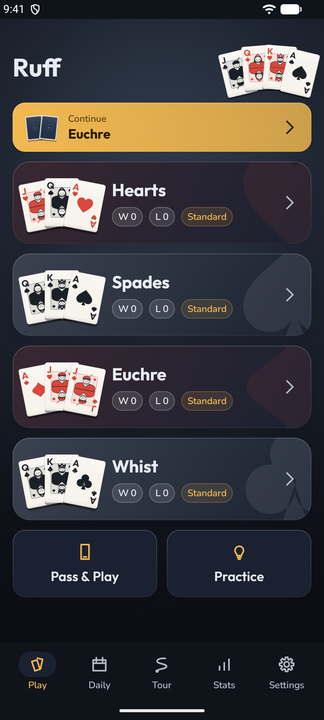
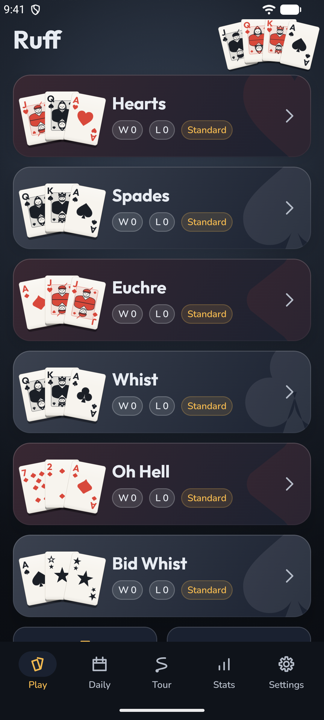
Ruff pages follow the six-game scope
Oh Hell and Bid Whist shipped, the table seats two to five, and the Tour
grew to fifty chapters, so the landing page, the privacy policy and the
home page card say six games where they said four, 300 Tour matches
where they said 240, and Pass & Play for up to five.

The games section gains two tiles and notes the new seat counts and
Whist modes; the free-versus-unlock split for every game is taken from
the setup sheet's own flags, which leave Oh Hell and Bid Whist with
their targets free and every other option on the unlock. The Home
screenshot is the six-game capture. The hand sort mentions the manual
order, and the result card's Share is described.

The privacy policy is dated 20 September: it records the reminder's
switch and time and the hand order among the settings, adds a
Notifications row for the local Daily reminder (asked for only when the
switch is turned on, re-armed after a reboot on Android, no push
service), describes the share card as a picture handed to the system
sheet, names the share and rejected-receipt events among the usage
statistics, and counts each seat's score rather than four.

diff --git a/ruff/index.html b/ruff/index.html
@@ -3,8 +3,8 @@
 <head>
 <meta charset="utf-8">
 <meta name="viewport" content="width=device-width, initial-scale=1">
-<title>Ruff — Hearts, Spades, Euchre and Whist at one honest table, for Android and iOS · crackoncloud</title>
-<meta name="description" content="Ruff is Hearts, Spades, Euchre and Whist in one app: opponents that play a real club hand, a partner that covers your nil, every deal sealed before it is dealt and checkable after, every house rule as a switch, a Coach, a Daily scored against the expert, a 240-match Tour and Pass & Play. Offline, no account, no ads, one purchase.">
+<title>Ruff — Hearts, Spades, Euchre, Whist, Oh Hell and Bid Whist at one honest table, for Android and iOS · crackoncloud</title>
+<meta name="description" content="Ruff is Hearts, Spades, Euchre, Whist, Oh Hell and Bid Whist in one app: opponents that play a real club hand, a partner that covers your nil, every deal sealed before it is dealt and checkable after, every house rule as a switch, a Coach, a Daily scored against the expert, a 300-match Tour and Pass & Play for two to five. Offline, no account, no ads, one purchase.">
 <meta name="application-name" content="Ruff">
 <meta name="apple-mobile-web-app-title" content="Ruff">
 <meta name="theme-color" content="#14181F">
@@ -17,7 +17,7 @@
 <meta property="og:type" content="website">
 <meta property="og:url" content="https://crackoncloud.com/ruff/">
 <meta property="og:site_name" content="crackoncloud">
-<meta property="og:title" content="Ruff — Hearts, Spades, Euchre and Whist at one honest table">
+<meta property="og:title" content="Ruff — Hearts, Spades, Euchre, Whist, Oh Hell and Bid Whist at one honest table">
 <meta property="og:description" content="Opponents that play a real club hand, sealed deals you can check, every house rule as a switch, a Coach, a Daily, a Tour and Pass & Play. Offline, no account, no ads, one purchase.">
 <meta property="og:image" content="https://crackoncloud.com/assets/ruff/og.png">
 <meta property="og:image:width" content="1200">
@@ -35,10 +35,10 @@
   "applicationSubCategory": "Card",
   "gamePlatform": ["Android", "iOS"],
   "playMode": ["SinglePlayer", "MultiPlayer"],
-  "numberOfPlayers": { "@type": "QuantitativeValue", "minValue": 1, "maxValue": 4 },
+  "numberOfPlayers": { "@type": "QuantitativeValue", "minValue": 1, "maxValue": 5 },
   "url": "https://crackoncloud.com/ruff/",
   "image": "https://crackoncloud.com/assets/ruff/icon-256.png",
-  "description": "Hearts, Spades, Euchre and Whist for Android and iOS, at one table with one AI for every seat. The opponents search thousands of possible deals before each card and choose the conventional play among the good ones; a partner covers your nil and never over-trumps your winner. Every deal is sealed to a SHA-256 code before it is dealt and can be checked after it. Every house rule is a switch. A Coach shows the expert's card and why; a Daily is scored against the expert on the same deals; a Tour of 240 matches climbs from Easy to Expert; Pass & Play seats up to four people at one phone. No ads, no account, no server; offline; one purchase, not a subscription.",
+  "description": "Hearts, Spades, Euchre, Whist, Oh Hell and Bid Whist for Android and iOS, at one table of two to five seats with one AI for every seat. The opponents search thousands of possible deals before each card and choose the conventional play among the good ones; a partner covers your nil and never over-trumps your winner. Every deal is sealed to a SHA-256 code before it is dealt and can be checked after it. Every house rule is a switch. A Coach shows the expert's card and why; a Daily is scored against the expert on the same deals; a Tour of 300 matches climbs from Easy to Expert; Pass & Play seats up to five people at one phone. No ads, no account, no server; offline; one purchase, not a subscription.",
   "author": { "@type": "Organization", "name": "crackoncloud", "url": "https://crackoncloud.com/" },
   "privacyPolicy": "https://crackoncloud.com/ruff/privacy-policy/"
 }
@@ -165,7 +165,7 @@ section{padding:64px 0;border-top:1px solid var(--line)}
 .tile h3{margin:0 0 8px;font-size:17px;letter-spacing:-.01em}
 .tile p{margin:0;color:var(--quiet);font-size:14.5px}
 
-.games{display:grid;gap:16px;grid-template-columns:repeat(auto-fit,minmax(240px,1fr))}
+.games{display:grid;gap:16px;grid-template-columns:repeat(auto-fit,minmax(300px,1fr))}
 .game{
   background:var(--card);border:1px solid var(--line);border-radius:var(--radius);
   padding:22px 22px 20px;position:relative;overflow:hidden;
@@ -248,7 +248,7 @@ footer{border-top:1px solid var(--line);padding:36px 0 56px;color:var(--quiet);f
       Ruff <span class="sep">·</span> <span class="sub">crackoncloud</span>
     </a>
     <nav>
-      <a href="#games">Four games</a>
+      <a href="#games">Six games</a>
       <a href="#partner">The partner</a>
       <a href="#sealed">Sealed deals</a>
       <a href="#rules">Your rules</a>
@@ -266,7 +266,7 @@ footer{border-top:1px solid var(--line);padding:36px 0 56px;color:var(--quiet);f
       <div>
         <span class="eyebrow">Card games · Android and iOS</span>
         <h1>Ruff</h1>
-        <p class="tagline">Hearts, Spades, Euchre and Whist. <span class="alt">At one honest table.</span></p>
+        <p class="tagline">Hearts, Spades, Euchre, Whist, Oh Hell and Bid Whist. <span class="alt">At one honest table.</span></p>
         <p class="lede">
           Opponents that play a real club hand: a partner that covers your nil, never trumps your
           winner, and bids to your rules. Every deal is sealed before it is dealt and can be checked
@@ -294,33 +294,45 @@ footer{border-top:1px solid var(--line);padding:36px 0 56px;color:var(--quiet);f
   <section id="games">
     <div class="wrap">
       <div class="section-head">
-        <h2>Four games, one table</h2>
-        <p>All four are free, at every target, against Easy and Standard opponents. Each game has its own rules sheet, its own statistics and its own place in the Daily and the Tour.</p>
+        <h2>Six games, one table</h2>
+        <p>All six are free, at every target, against Easy and Standard opponents. Each game has its own rules sheet, its own statistics and its own place in the Daily and the Tour.</p>
       </div>
       <div class="games">
         <div class="game">
           <span class="suit red" aria-hidden="true">♥</span>
           <h3><span class="pip red" aria-hidden="true">♥</span>Hearts</h3>
           <p class="to">To 50, 100 or 150</p>
-          <p>The jack of diamonds, shooting the moon your way — add, subtract, or choose at the time — and every passing rotation, or none.</p>
+          <p>The jack of diamonds, shooting the moon your way — add, subtract, or choose at the time — every passing rotation or none, the sun, and a table for three or five.</p>
         </div>
         <div class="game">
           <span class="suit" aria-hidden="true">♠</span>
           <h3><span class="pip" aria-hidden="true">♠</span>Spades</h3>
           <p class="to">To 200, 300 or 500</p>
-          <p>Nil and blind nil, bags at five or ten, jokers as top trumps, spades led any time, ten for 200, and every player for themselves if that is how your table plays.</p>
+          <p>Nil and blind nil, bags at five or ten, jokers as top trumps, spades led any time, ten for 200, every player for themselves, and cutthroat for three with a kitty.</p>
         </div>
         <div class="game">
           <span class="suit red" aria-hidden="true">♦</span>
           <h3><span class="pip red" aria-hidden="true">♦</span>Euchre</h3>
           <p class="to">To 5, 7, 10 or 15</p>
-          <p>Stick the dealer, going alone, the farmer's hand, the Canadian loner, a 24-, 28- or 32-card deck, and British scoring.</p>
+          <p>Stick the dealer, going alone, the farmer's hand, the Canadian loner, a defender answering alone, a 24-, 28- or 32-card deck, and British scoring.</p>
         </div>
         <div class="game">
           <span class="suit" aria-hidden="true">♣</span>
           <h3><span class="pip" aria-hidden="true">♣</span>Whist</h3>
           <p class="to">To 5 or 7</p>
-          <p>The classic partnership game: the last card turned for trumps, the long or the short game, with honours if you count them.</p>
+          <p>The classic partnership game: the last card turned for trumps, the long or the short game, with honours if you count them. Or German Whist for two, drawing from the stock, or Knockout Whist down to the last seat in.</p>
+        </div>
+        <div class="game">
+          <span class="suit red" aria-hidden="true">♦</span>
+          <h3><span class="pip red" aria-hidden="true">♦</span>Oh Hell</h3>
+          <p class="to">Three, four or five seats</p>
+          <p>A bid on every hand as the deal climbs from one card to seven and back, or runs down from seven or up to thirteen; trump from the turn-up; the dealer hooked so the bids never add up; ten and a trick for an exact bid, or the difference off for a miss.</p>
+        </div>
+        <div class="game">
+          <span class="suit" aria-hidden="true">♠</span>
+          <h3><span class="pip" aria-hidden="true">♠</span>Bid Whist</h3>
+          <p class="to">To 5, 7 or 9</p>
+          <p>Fifty-four cards, a six-card kitty, and bids of three to seven books uptown, downtown or no-trump; the winner takes the kitty, names trump and discards six; jokers on top, and a redeal on four passes if you play it.</p>
         </div>
       </div>
     </div>
@@ -330,7 +342,7 @@ footer{border-top:1px solid var(--line);padding:36px 0 56px;color:var(--quiet);f
     <div class="wrap">
       <div class="section-head">
         <h2>A partner who plays like one</h2>
-        <p>One AI for every seat, at four levels you set per seat, so you can have a strong partner and gentle opponents, or the other way round. It searches thousands of possible deals before every card, then chooses the conventional play among the good ones.</p>
+        <p>One AI for every seat, at any table of two to five, at four levels you set per seat, so you can have a strong partner and gentle opponents, or the other way round. It searches thousands of possible deals before every card, then chooses the conventional play among the good ones.</p>
       </div>
       <div class="split">
         <div class="shot">
@@ -373,17 +385,19 @@ footer{border-top:1px solid var(--line);padding:36px 0 56px;color:var(--quiet);f
     <div class="wrap">
       <div class="section-head">
         <h2>Your rules</h2>
-        <p>Every house rule the leaders argue about, as a switch on the setup sheet. The standard set and the two most-asked options per game are free; the whole sheet opens with the unlock.</p>
+        <p>Every house rule the leaders argue about, as a switch on the setup sheet. The standard game of each, every target and the most-asked options are free; the whole sheet opens with the unlock.</p>
       </div>
       <div class="split">
         <div class="shot">
           <img src="/assets/ruff/rules.png" alt="The Spades setup sheet: Easy, Standard, Strong and Expert chips, a Set each seat switch, play to 200, 300 or 500, and the rules — nil bids, bag penalty at 10 or 5, blind nil, jokers, every player for themselves, spades led any time, ten for 200" width="324" height="720" loading="lazy">
         </div>
         <ul class="facts">
-          <li><b>Hearts</b> — the jack of diamonds and how the moon scores are free; the passing rotation, the queen breaking hearts and no points on the first trick come with the unlock.</li>
-          <li><b>Spades</b> — nil and bags at five or ten are free; blind nil, jokers, solo, spades led any time and ten for 200 come with the unlock.</li>
-          <li><b>Euchre</b> — stick the dealer is free; the farmer's hand, the Canadian loner, the deck size and British scoring come with the unlock.</li>
-          <li><b>Whist</b> — the long game is free; honours come with the unlock.</li>
+          <li><b>Hearts</b> — the jack of diamonds and how the moon scores are free; the passing rotation, the queen breaking hearts, no points on the first trick, the sun and the three- and five-seat tables come with the unlock.</li>
+          <li><b>Spades</b> — nil and bags at five or ten are free; blind nil, jokers, solo, cutthroat, spades led any time and ten for 200 come with the unlock.</li>
+          <li><b>Euchre</b> — stick the dealer is free; the farmer's hand, the Canadian loner, the lone defender, the deck size and British scoring come with the unlock.</li>
+          <li><b>Whist</b> — the long game is free; honours, German Whist and Knockout Whist come with the unlock.</li>
+          <li><b>Oh Hell</b> — the standard game is free; the schedule, the seat count, the hook and the scoring come with the unlock.</li>
+          <li><b>Bid Whist</b> — the standard game is free, to 5, 7 or 9; the redeal on four passes comes with the unlock.</li>
           <li>The rules in force are one tap away from the table, and the rule sheet for each game is in the app.</li>
         </ul>
       </div>
@@ -394,20 +408,20 @@ footer{border-top:1px solid var(--line);padding:36px 0 56px;color:var(--quiet);f
     <div class="wrap">
       <div class="section-head">
         <h2>A Daily, a Tour, and a table for the family</h2>
-        <p>Four ways to sit down that are not another match against the same four seats.</p>
+        <p>Four ways to sit down that are not another match against the same seats.</p>
       </div>
       <div class="grid four">
         <div class="tile">
           <h3>The Daily</h3>
-          <p>One game is featured each day, in turn. You play four hands from the day's seed; the expert plays the same four; your score is the margin between you. Solve it and your streak grows; every seventh day banks a freeze, up to two, spent for you on a day you miss.</p>
+          <p>One of the six games is featured each day, in turn. You play four hands from the day's seed; the expert plays the same four; your score is the margin between you. Solve it and your streak grows; every seventh day banks a freeze, up to two, spent for you on a day you miss. A reminder, off until you switch it on, can nudge you at a time you pick.</p>
         </div>
         <div class="tile">
           <h3>The Tour</h3>
-          <p>Forty chapters of six matches, 240 in all, that introduce one rule at a time and climb from Easy tables to Expert ones, with stars for the margin. Every chapter is verified winnable by an Expert seat. The first three chapters are free.</p>
+          <p>Fifty chapters of six matches, 300 in all, that introduce one rule at a time and climb from Easy tables to Expert ones, with stars for the margin. Every chapter is verified winnable by an Expert seat. The first three chapters are free.</p>
         </div>
         <div class="tile">
           <h3>Pass &amp; Play</h3>
-          <p>Two, three or four people at one phone. The table turns to whoever is holding it, and the hand-off screen hides the cards in between.</p>
+          <p>Two to five people at one phone, in any of the six games. The table turns to whoever is holding it, and the hand-off screen hides the cards in between.</p>
         </div>
         <div class="tile">
           <h3>Practice</h3>
@@ -429,15 +443,15 @@ footer{border-top:1px solid var(--line);padding:36px 0 56px;color:var(--quiet);f
         </div>
         <ul class="facts">
           <li>Graphite, Paper and Midnight tables and the Studio, Bold and Classic decks are free; Velvet and Copper, Ink and Neon come with the unlock.</li>
-          <li>Four-colour suits, local court letters in every language, three card sizes, a left-handed layout, sort by suit or by rank.</li>
+          <li>Four-colour suits, local court letters in every language, three card sizes, a left-handed layout, sort by suit, by rank, or in the order you arrange the hand yourself.</li>
           <li>Play a card with two taps, one tap, or a drag. Confirm point cards, auto-play the only legal card, undo, set the thinking delay and the trick pause.</li>
           <li>Animation at Normal, Fast or Off; Reduce motion cuts instead of moving. Sound and haptics each have a switch.</li>
-          <li>A screen reader can play at the table — every card is spoken by name — and the app speaks 22 languages.</li>
+          <li>A screen reader can play at the table — every card is spoken by name — and the app speaks 22 languages. The result card shares as a picture, with the sealed deal named on it.</li>
         </ul>
       </div>
       <div class="stats" style="margin-top:32px">
-        <div class="stat"><b>4</b><span>Games, all free to play</span></div>
-        <div class="stat"><b>240</b><span>Tour matches in forty chapters</span></div>
+        <div class="stat"><b>6</b><span>Games, all free to play</span></div>
+        <div class="stat"><b>300</b><span>Tour matches in fifty chapters</span></div>
         <div class="stat"><b>22</b><span>Languages, app and listing</span></div>
         <div class="stat"><b>0</b><span>Ads, and no ad SDK in the build</span></div>
       </div>
@@ -452,8 +466,8 @@ footer{border-top:1px solid var(--line);padding:36px 0 56px;color:var(--quiet);f
       </div>
       <div class="gallery">
         <figure>
-          <div class="shot"><img src="/assets/ruff/home.png" alt="The Ruff home screen" width="324" height="720" loading="lazy"></div>
-          <figcaption><b>Home</b>A Continue strip, the four games with their records, Pass &amp; Play and Practice.</figcaption>
+          <div class="shot"><img src="/assets/ruff/home.png" alt="The Ruff home screen: Hearts, Spades, Euchre, Whist, Oh Hell and Bid Whist, each with its record and level" width="324" height="720" loading="lazy"></div>
+          <figcaption><b>Home</b>The six games with their records and levels, then Pass &amp; Play and Practice.</figcaption>
         </figure>
         <figure>
           <div class="shot"><img src="/assets/ruff/table.png" alt="A hand of Hearts" width="324" height="720" loading="lazy"></div>
@@ -509,21 +523,21 @@ footer{border-top:1px solid var(--line);padding:36px 0 56px;color:var(--quiet);f
     <div class="wrap">
       <div class="section-head">
         <h2>Free, and what the unlock adds</h2>
-        <p>All four games, Easy and Standard at every seat, the standard rules and the most-asked options, today's Daily, the first three Tour chapters, Pass &amp; Play and Practice are free. No game is behind the price.</p>
+        <p>All six games, Easy and Standard at every seat, the standard rules and the most-asked options, today's Daily, the first three Tour chapters, Pass &amp; Play and Practice are free. No game is behind the price.</p>
       </div>
       <div class="plans">
         <div class="plan">
           <h3>Free</h3>
           <p class="price">Every game, always</p>
           <ul>
-            <li>Hearts, Spades, Euchre and Whist, at every target</li>
+            <li>Hearts, Spades, Euchre, Whist, Oh Hell and Bid Whist, at every target</li>
             <li>Easy and Standard opponents, set per seat</li>
             <li>The standard rules and two options per game</li>
             <li>Today's featured Daily, your streak and your freezes</li>
             <li>Tour chapters 1–3, eighteen matches</li>
             <li>The Coach, three a match in Play and unlimited in Practice</li>
             <li>The sealed deal, the check, undo, and the hand review</li>
-            <li>Pass &amp; Play for up to four, and Practice</li>
+            <li>Pass &amp; Play for up to five, and Practice</li>
             <li>Three tables, three decks, two backs</li>
             <li>Statistics and history, forever, and 22 languages</li>
           </ul>
@@ -535,8 +549,8 @@ footer{border-top:1px solid var(--line);padding:36px 0 56px;color:var(--quiet);f
           <ul>
             <li>Strong and Expert opponents, at any seat</li>
             <li>Every house rule on every sheet</li>
-            <li>The whole Tour, all forty chapters</li>
-            <li>Every past Daily, and all four games on any day</li>
+            <li>The whole Tour, all fifty chapters</li>
+            <li>Every past Daily, and all six games on any day</li>
             <li>The Coach without limit, and what Expert would have played at any trick of the review</li>
             <li>The Velvet and Copper tables, the Ink and Neon decks</li>
           </ul>
@@ -556,7 +570,7 @@ footer{border-top:1px solid var(--line);padding:36px 0 56px;color:var(--quiet);f
         <li><b>No ads</b>There is no ad SDK in the app, and it reads no advertising identifier.</li>
         <li><b>No coins, no chips, no wagers</b>Nothing is bet and nothing is bought by the piece. Bids and bags are the games' own words.</li>
         <li><b>No subscription</b>One purchase, once, and it is not required to play any game.</li>
-        <li><b>No game is sold</b>All four are free, at every target, against Easy and Standard.</li>
+        <li><b>No game is sold</b>All six are free, at every target, against Easy and Standard.</li>
         <li><b>No account, no sign-in</b>There is no server anywhere in this game to hold one.</li>
         <li><b>No network needed</b>Every deal and every decision is made on the device, including the Daily.</li>
         <li><b>No peeking</b>The AI's input cannot hold a hidden card, and a test proves it every build.</li>
@@ -580,11 +594,11 @@ footer{border-top:1px solid var(--line);padding:36px 0 56px;color:var(--quiet);f
         </details>
         <details>
           <summary>How does the Daily work?</summary>
-          <p>One game is featured each day, in turn. You play four hands from the day's seed and the expert plays the same four; your score is the margin between you, so a bad deal is bad for both of you. Any device builds the same four hands from the date, nothing is downloaded, and today's is free. The other three games on a given day, and past days, open with the unlock. Only today moves the streak; a past day played from the calendar is history.</p>
+          <p>One of the six games is featured each day, in turn. You play four hands from the day's seed and the expert plays the same four; your score is the margin between you, so a bad deal is bad for both of you. Any device builds the same four hands from the date, nothing is downloaded, and today's is free. The other five games on a given day, and past days, open with the unlock. Only today moves the streak; a past day played from the calendar is history.</p>
         </details>
         <details>
           <summary>Can I play with people in the room?</summary>
-          <p>Yes: Pass &amp; Play seats two, three or four people at one phone, with the AI filling the rest. The table turns to whoever is holding the phone, and the hand-off screen hides the cards until the next person taps and holds. There is no online play and no leaderboard at 1.0.</p>
+          <p>Yes: Pass &amp; Play seats two to five people at one phone — as many as the table has seats — with the AI filling the rest. The table turns to whoever is holding the phone, and the hand-off screen hides the cards until the next person taps and holds. There is no online play and no leaderboard at 1.0.</p>
         </details>
         <details>
           <summary>Does it work offline?</summary>
@@ -608,8 +622,8 @@ footer{border-top:1px solid var(--line);padding:36px 0 56px;color:var(--quiet);f
 
   <section class="band">
     <div class="wrap">
-      <h2>Four games, one honest table, your phone.</h2>
-      <p>A card game for anyone who plays Hearts, Spades, Euchre or Whist at a real table: fair deals, house rules, and a partner worth having.</p>
+      <h2>Six games, one honest table, your phone.</h2>
+      <p>A card game for anyone who plays Hearts, Spades, Euchre, Whist, Oh Hell or Bid Whist at a real table: fair deals, house rules, and a partner worth having.</p>
       <div class="hero-cta">
         <span class="btn btn-soon" aria-disabled="true">
           <svg viewBox="0 0 24 24" aria-hidden="true"><path d="M3.6 1.8a1.5 1.5 0 0 0-.5 1.1v18.2c0 .45.19.86.5 1.1l10-10.2-10-10.2Zm11.1 9.1 2.9-2.9-11-6.2 8.1 9.1Zm0 2.2-8.1 9.1 11-6.2-2.9-2.9Zm4.3-3.9-2.4 2.4 2.4 2.4 2.5-1.4c.9-.5.9-1.9 0-2.4l-2.5-1Z"/></svg>

diff --git a/ruff/privacy-policy/index.html b/ruff/privacy-policy/index.html
@@ -99,7 +99,7 @@ footer a{text-decoration:none}
     <h1>Ruff</h1>
     <p class="meta">
       Android and iOS game <code>com.crackoncloud.ruff</code>, published by crackoncloud ·
-      Last updated 19 September 2026
+      Last updated 20 September 2026
     </p>
 
     <div class="callout">
@@ -139,8 +139,9 @@ footer a{text-decoration:none}
         days a freeze covered</li>
       <li>Your settings: how a card is played, confirm point cards, auto-play the only card, undo,
         thinking delay, trick pause, auto-collect, table, deck, card size, four-colour suits, court
-        letters, left-handed layout, hand sort, animation speed, reduce motion, sound, haptics, the
-        two diagnostics switches, and the screen you were last on</li>
+        letters, left-handed layout, hand sort and the order you last arranged a hand in, animation
+        speed, reduce motion, sound, haptics, the Daily reminder switch and its time, the two
+        diagnostics switches, and the screen you were last on</li>
       <li>The date of first launch, whether the rating sheet has been shown, which first-run tips
         you have dismissed, and whether this phone has switched Expert to its reduced search</li>
       <li>Whether Ruff Unlocked has been bought, as last reported by the store. It is kept
@@ -166,6 +167,15 @@ footer a{text-decoration:none}
       place, is up to you and the app you saved it with.
     </p>
 
+    <h3>The share card</h3>
+    <p>
+      Share, on a result card, draws the card as a picture — the game, the margin, the level and
+      the sealed deal's code, nothing that is not already on the screen — writes it to the app's
+      own cache and hands it to the system share sheet with a one-line caption. Which app receives
+      it is your choice on that sheet; the picture goes to that app and nowhere else, and the file
+      in the cache is replaced by the next card you share. Nothing is sent unless you tap Share.
+    </p>
+
     <h3>Your device's own backup</h3>
     <p>
       On Android, the game allows the platform's own backup, so if you have Android backup switched
@@ -188,6 +198,15 @@ footer a{text-decoration:none}
             haptics setting is off.</td>
         </tr>
         <tr>
+          <td>Notifications</td>
+          <td>One local reminder for the Daily, off until you switch it on in Settings › Daily
+            reminder. The permission is asked for at that moment and never on a cold open; a refusal
+            switches the setting back. It fires once a day at the time you pick, skips a day whose
+            Daily you have already played, and is scheduled by the phone's own clock — there is no
+            push service, no token and no server behind it. On Android the app also listens for the
+            phone finishing a reboot, only to put that alarm back.</td>
+        </tr>
+        <tr>
           <td>Internet<br>Network state</td>
           <td>No hand needs a connection: every deal and every decision is computed on the device,
             including the Daily. It is here for the store — the purchase, the restore, Android's
@@ -197,9 +216,7 @@ footer a{text-decoration:none}
       </tbody>
     </table>
     <p class="note">
-      That is the whole list. There is no notifications permission: the daily reminder is planned
-      for a later release, and in this one nothing is scheduled and no notification is ever posted.
-      The advertising-identifier permission that the analytics library would otherwise bring along
+      That is the whole list. The advertising-identifier permission that the analytics library would otherwise bring along
       is explicitly <em>removed</em> from the Android manifest, because nothing in this game reads
       it. There is no storage permission, because the backup goes through the system picker; and no
       permission for location, contacts, the camera, the microphone, the phone, all-files access, or
@@ -236,13 +253,15 @@ footer a{text-decoration:none}
     </p>
     <ul>
       <li>A match started, with the game, the mode, the levels at the table and a number that
-        identifies the rules in force; a hand ended, with the game, the four seats' scores and
+        identifies the rules in force; a hand ended, with the game, each seat's score and
         whether there was a moon, a nil or a march; a match ended, with the game, whether you
         won, the margin, and how many hands, hints and undos it took</li>
       <li>The Coach asked, and whether its card was played; a Daily played, with the game, the
         margin and the streak; a Tour match done, with the chapter and stars</li>
       <li>The Unlock page opened, and from where; a purchase; a restore, and how it went; a
-        setting changed, by its name; and this phone switching Expert to its reduced search</li>
+        purchase receipt that did not verify on the device; a setting changed, by its name; a
+        result card shared, with the game; and this phone switching Expert to its reduced
+        search</li>
       <li>One sampled measurement: one AI decision in fifty is reported by its level, how many
         milliseconds it took and how many iterations it searched, so the levels' budgets can be
         checked on real phones</li>
@@ -313,8 +332,8 @@ footer a{text-decoration:none}
       Ruff is a card game for a general audience and is not directed at children under 13. It has
       no social features, no messaging, no user profiles and no accounts, it shows no advertising,
       and it asks no one for a name, an email address or any other personal detail, at any age.
-      There is no wagering, no chips and no currency of any kind: Hearts, Spades, Euchre and Whist
-      are scored games, and a bid or a bag is a game term. Because it is not a child-directed app
+      There is no wagering, no chips and no currency of any kind: Hearts, Spades, Euchre, Whist,
+      Oh Hell and Bid Whist are scored games, and a bid, a book or a bag is a game term. Because it is not a child-directed app
       it is not in Google Play's Designed for Families programme.
     </p>
 

diff --git a/index.html b/index.html
@@ -4,7 +4,7 @@
 <meta charset="utf-8">
 <meta name="viewport" content="width=device-width, initial-scale=1">
 <title>crackoncloud — Apps for music, video, books, training and screen time</title>
-<meta name="description" content="crackoncloud builds apps for Android and iOS: Spiral Player for music, Vot Player for video, Shadow Reader for books, AtomFit for the gym, Slatework for logic puzzles, Gulp for snake puzzles, Quill for word puzzles, Ruff for Hearts, Spades, Euchre and Whist, and Ruk, an app blocker and screen time app.">
+<meta name="description" content="crackoncloud builds apps for Android and iOS: Spiral Player for music, Vot Player for video, Shadow Reader for books, AtomFit for the gym, Slatework for logic puzzles, Gulp for snake puzzles, Quill for word puzzles, Ruff for Hearts, Spades, Euchre, Whist, Oh Hell and Bid Whist, and Ruk, an app blocker and screen time app.">
 <meta name="theme-color" content="#0b0d12">
 <link rel="canonical" href="https://crackoncloud.com/">
 <link rel="icon" href="assets/icon.svg" type="image/svg+xml">
@@ -377,18 +377,18 @@ footer{border-top:1px solid var(--line);padding:36px 0 56px;color:var(--muted);f
           <img class="app-icon" src="assets/ruff/icon-256.png" alt="Ruff app icon" width="256" height="256" loading="lazy">
           <div>
             <h3>Ruff</h3>
-            <p class="kicker">Hearts, Spades, Euchre and Whist &middot; Android and iOS</p>
+            <p class="kicker">Hearts, Spades, Euchre, Whist, Oh Hell and Bid Whist &middot; Android and iOS</p>
             <p class="desc">
-              Four trick-taking games at one table, with one AI for every seat: a partner that
+              Six trick-taking games at one table of two to five seats, with one AI for every seat: a partner that
               covers your nil and never trumps your winner, every deal sealed before it is dealt
               and checkable after, and every house rule as a switch.
             </p>
             <ul class="features">
-              <li>All four games free, at every target</li>
+              <li>All six games free, at every target</li>
               <li>Sealed deals: the computer never sees your cards, and you can prove it</li>
               <li>A Coach that shows the expert's card and why</li>
               <li>A Daily scored against the expert on the same deals</li>
-              <li>A 240-match Tour, and Pass &amp; Play for up to four</li>
+              <li>A 300-match Tour, and Pass &amp; Play for up to five</li>
               <li>Every house rule you argue about, as a switch</li>
               <li>No ads, no coins, no timer, offline</li>
               <li>No account, no sign-in, one-time unlock</li>
